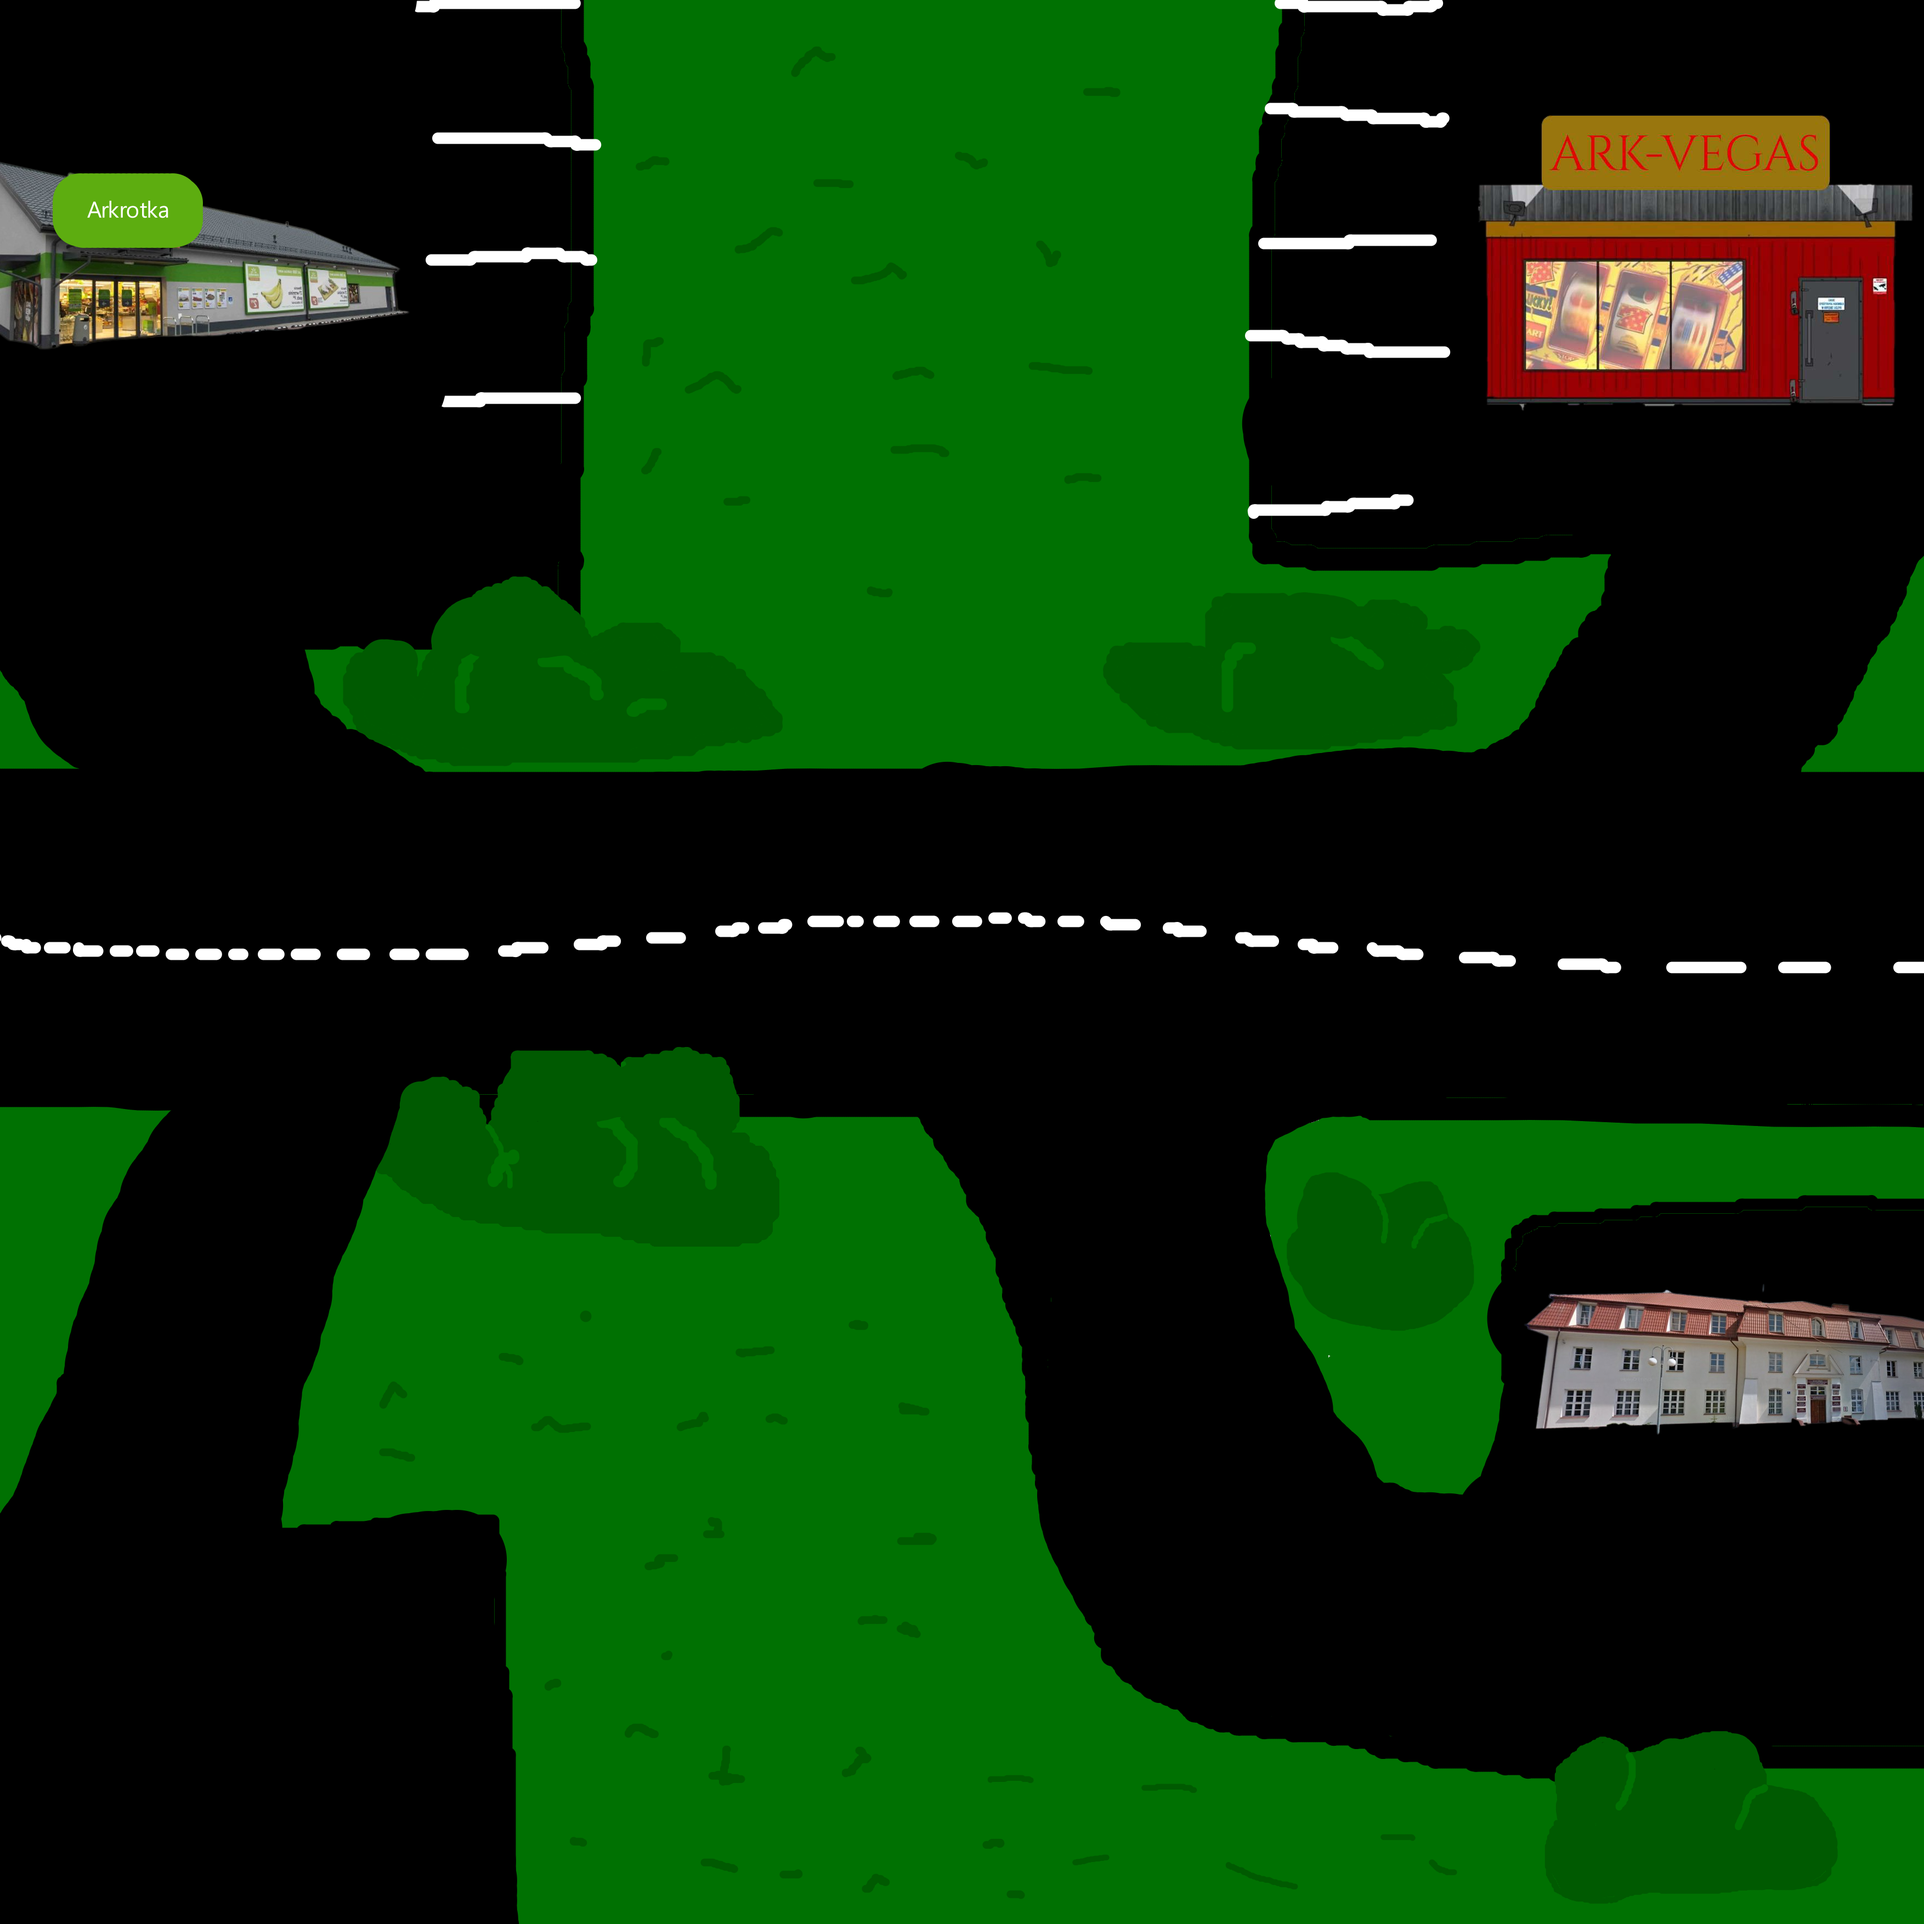
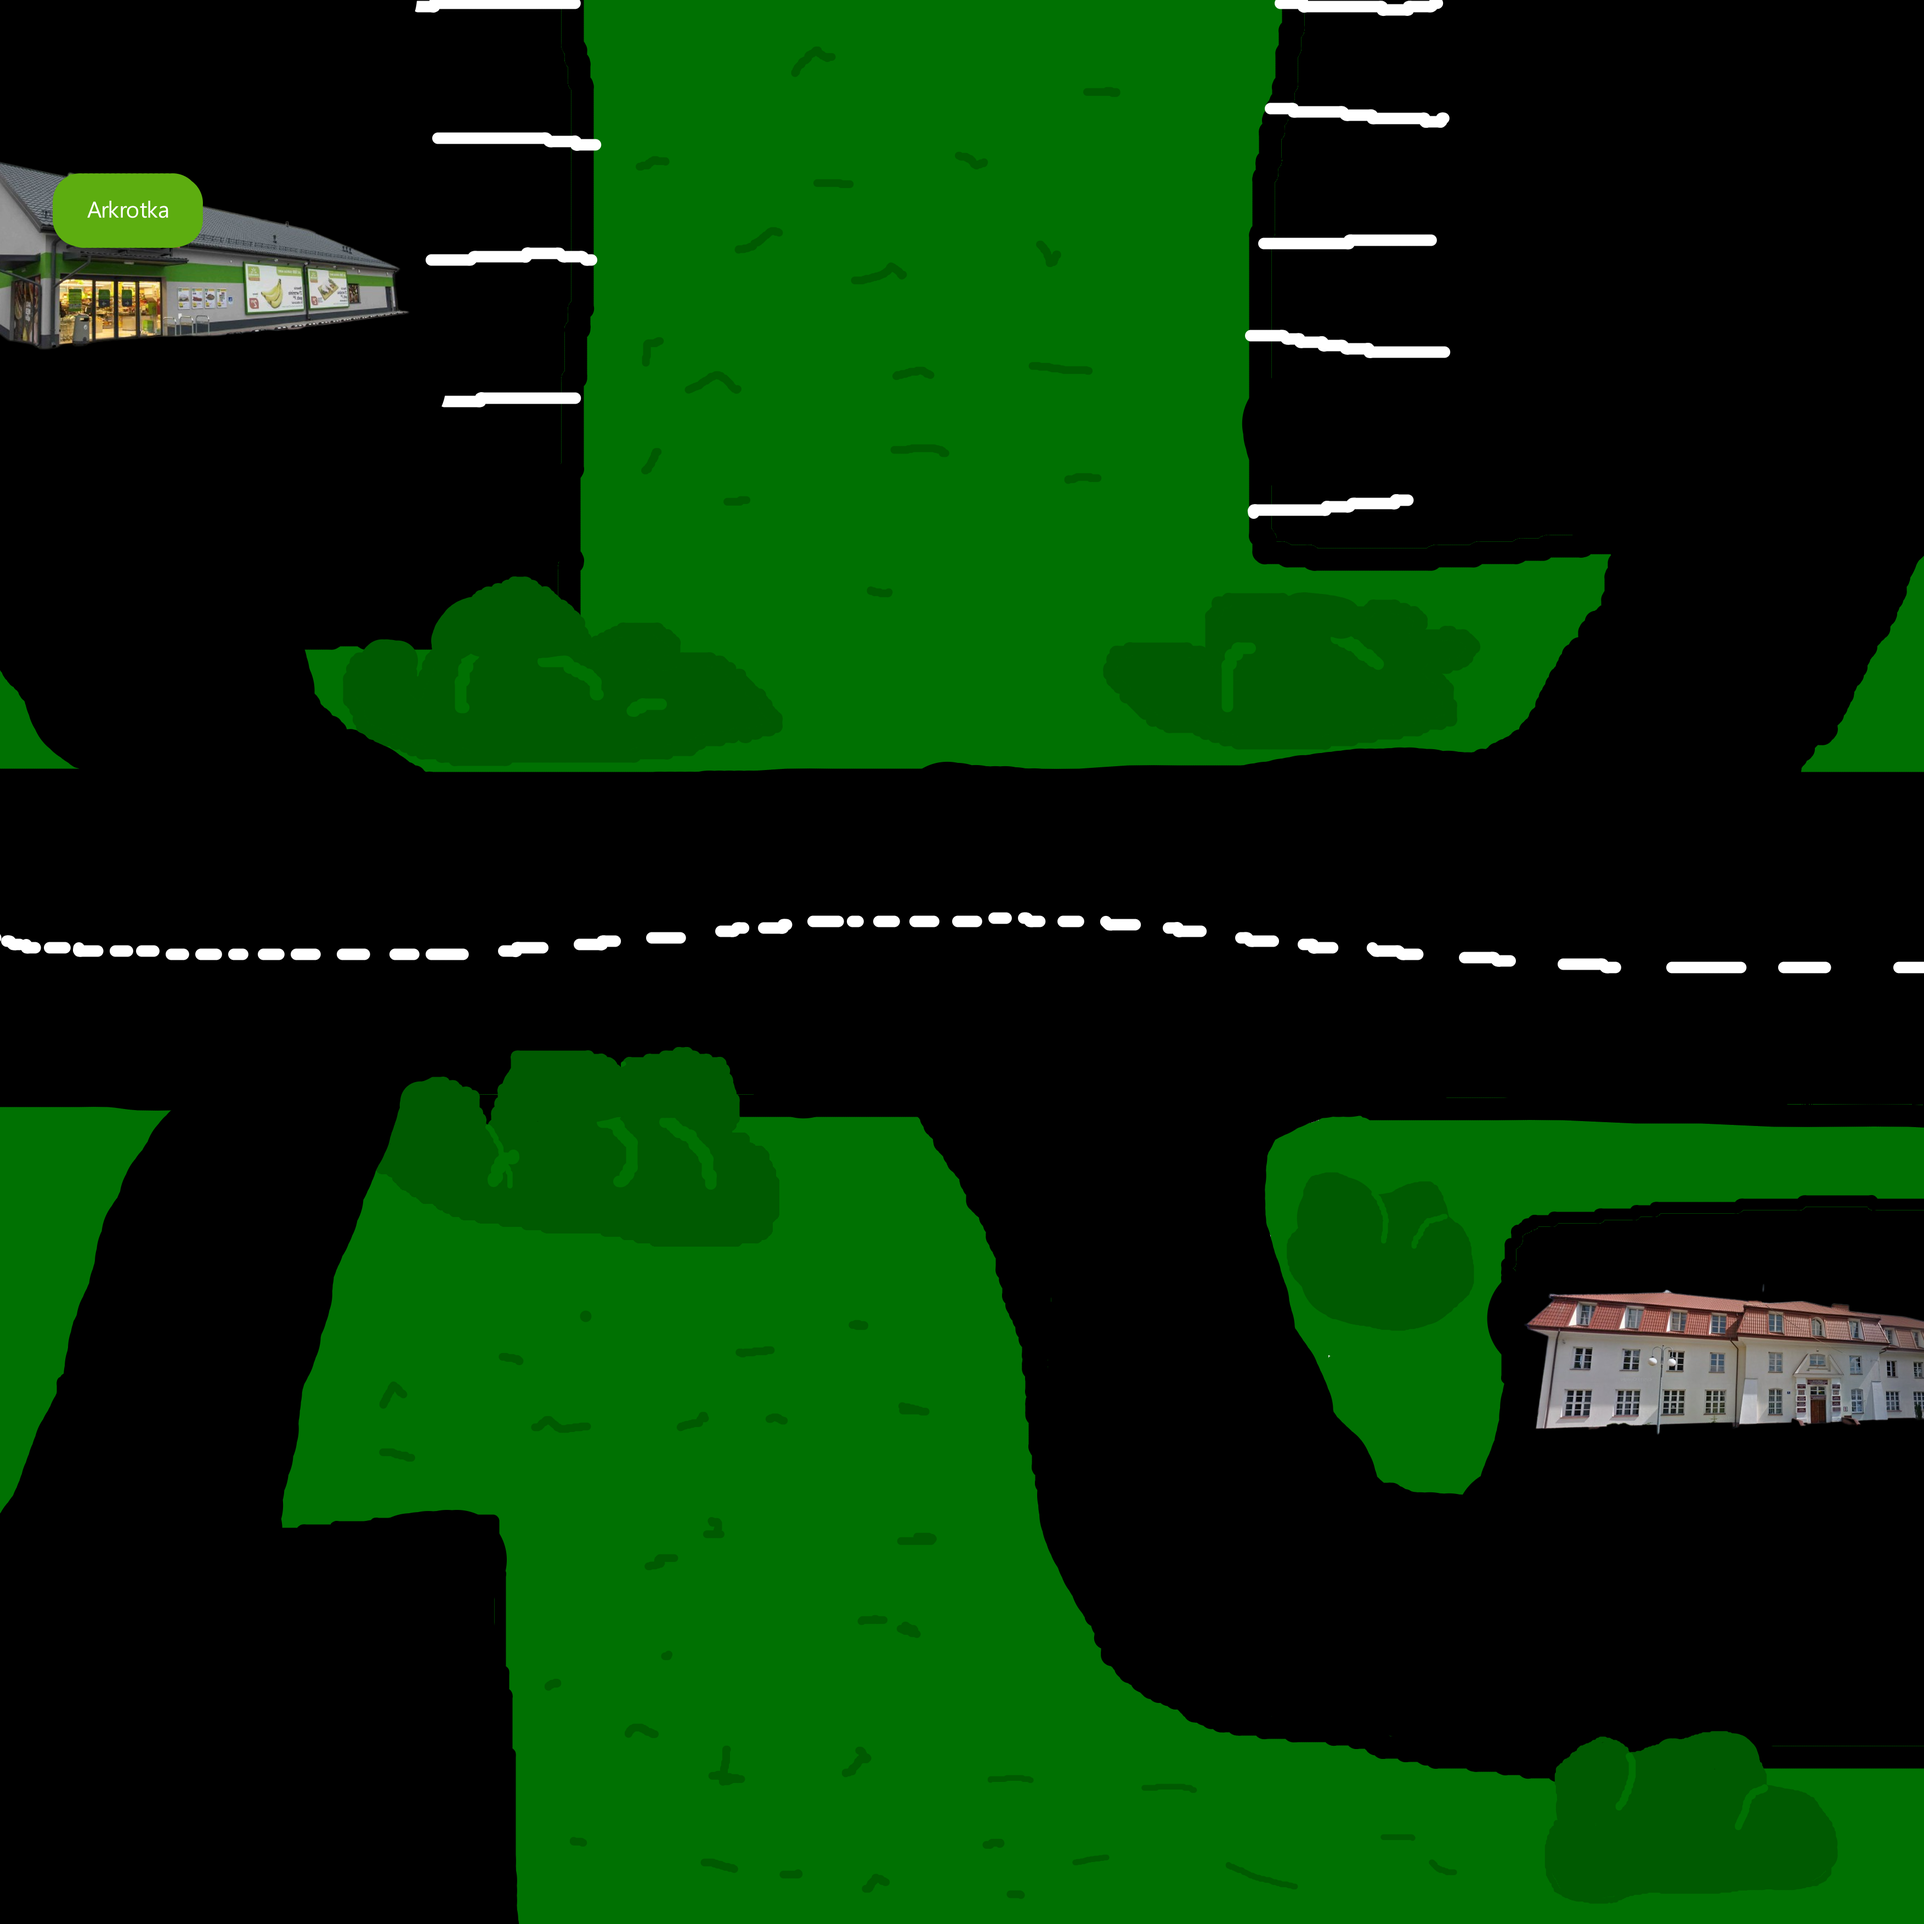
mapa nowa

Changed region(s): [[0.7457, 0.0621, 0.9943, 0.2175]]

diff --git a/js/bottomDIV_main.js b/js/bottomDIV_main.js
@@ -15,17 +15,16 @@ export function renderMain(Game){
 
         <div class="centerBottomLocation openLocaction" id="mietek" onclick="game.enterLocaction('mietek');">
             <img class="centerBottomLocationImage openLocactionImage" src="./img/mietek.png" draggable="false">
-            <h2 class="centerBottomLocationText openLocactionText">Żul Mietek</h2>
+            <h2 class="centerBottomLocationText openLocactionText" id="mietekText">Żul Mietek</h2>
         </div>
 
         <div class="centerBottomLocation openLocaction" id="swiezaki" onclick="game.enterLocaction('swiezaki');">
             <img class="centerBottomLocationImage openLocactionImage" src="./img/swiezaki.png" draggable="false">
-            <h2 class="centerBottomLocationText openLocactionText">Gang świeżaków</h2>
+            <h2 class="centerBottomLocationText openLocactionText" id="swiezakiText">Gang świeżaków</h2>
         </div>
 
         <div class="centerBottomLocation openLocaction" id="kasyno" onclick="game.enterLocaction('kasyno');">
-            <img class="centerBottomLocationImage openLocactionImage" src="./img/heisenberg-spongebob.png" draggable="false">
-            <h2 class="centerBottomLocationText openLocactionText">kasyno</h2>
+            <img class="centerBottomLocationImage openLocactionImage" src="./img/arekvegas.png" draggable="false">
         </div>
     `);
 

diff --git a/css/centerdivbottom.css b/css/centerdivbottom.css
@@ -55,19 +55,27 @@
 }
 
 #mietek {
-    bottom: 90px;
-    left: 30px;
-    transform: rotate(-35deg);
+    bottom: 30%;
+    left: 0.5%;
+    transform: scale(0.6);
 }
 #mietek:hover img {
     transform: scale(105%);
     filter: contrast(30%);
 }
+#mietekText {
+    color: white;
+}
 
 #swiezaki {
-    top: 20px;
-    left: 50px;
+    top: 16%;
+    left: 8px;
+    transform: rotate(-9deg);
     transition: filter 1s;
+    color: white;
+}
+#swiezakiText {
+    font-size: 9px;
 }
 #swiezaki:hover {
     filter: opacity(0.3);
@@ -82,9 +90,10 @@
 }
 
 #kasyno {
-    right: 200px;
-    top: 210px;
+    right: 7%;
+    top: 4.5%;
     position: absolute;
+    transform: scale(1.8);
 }
 #kasyno:hover img {
     transform: scale(105%);
